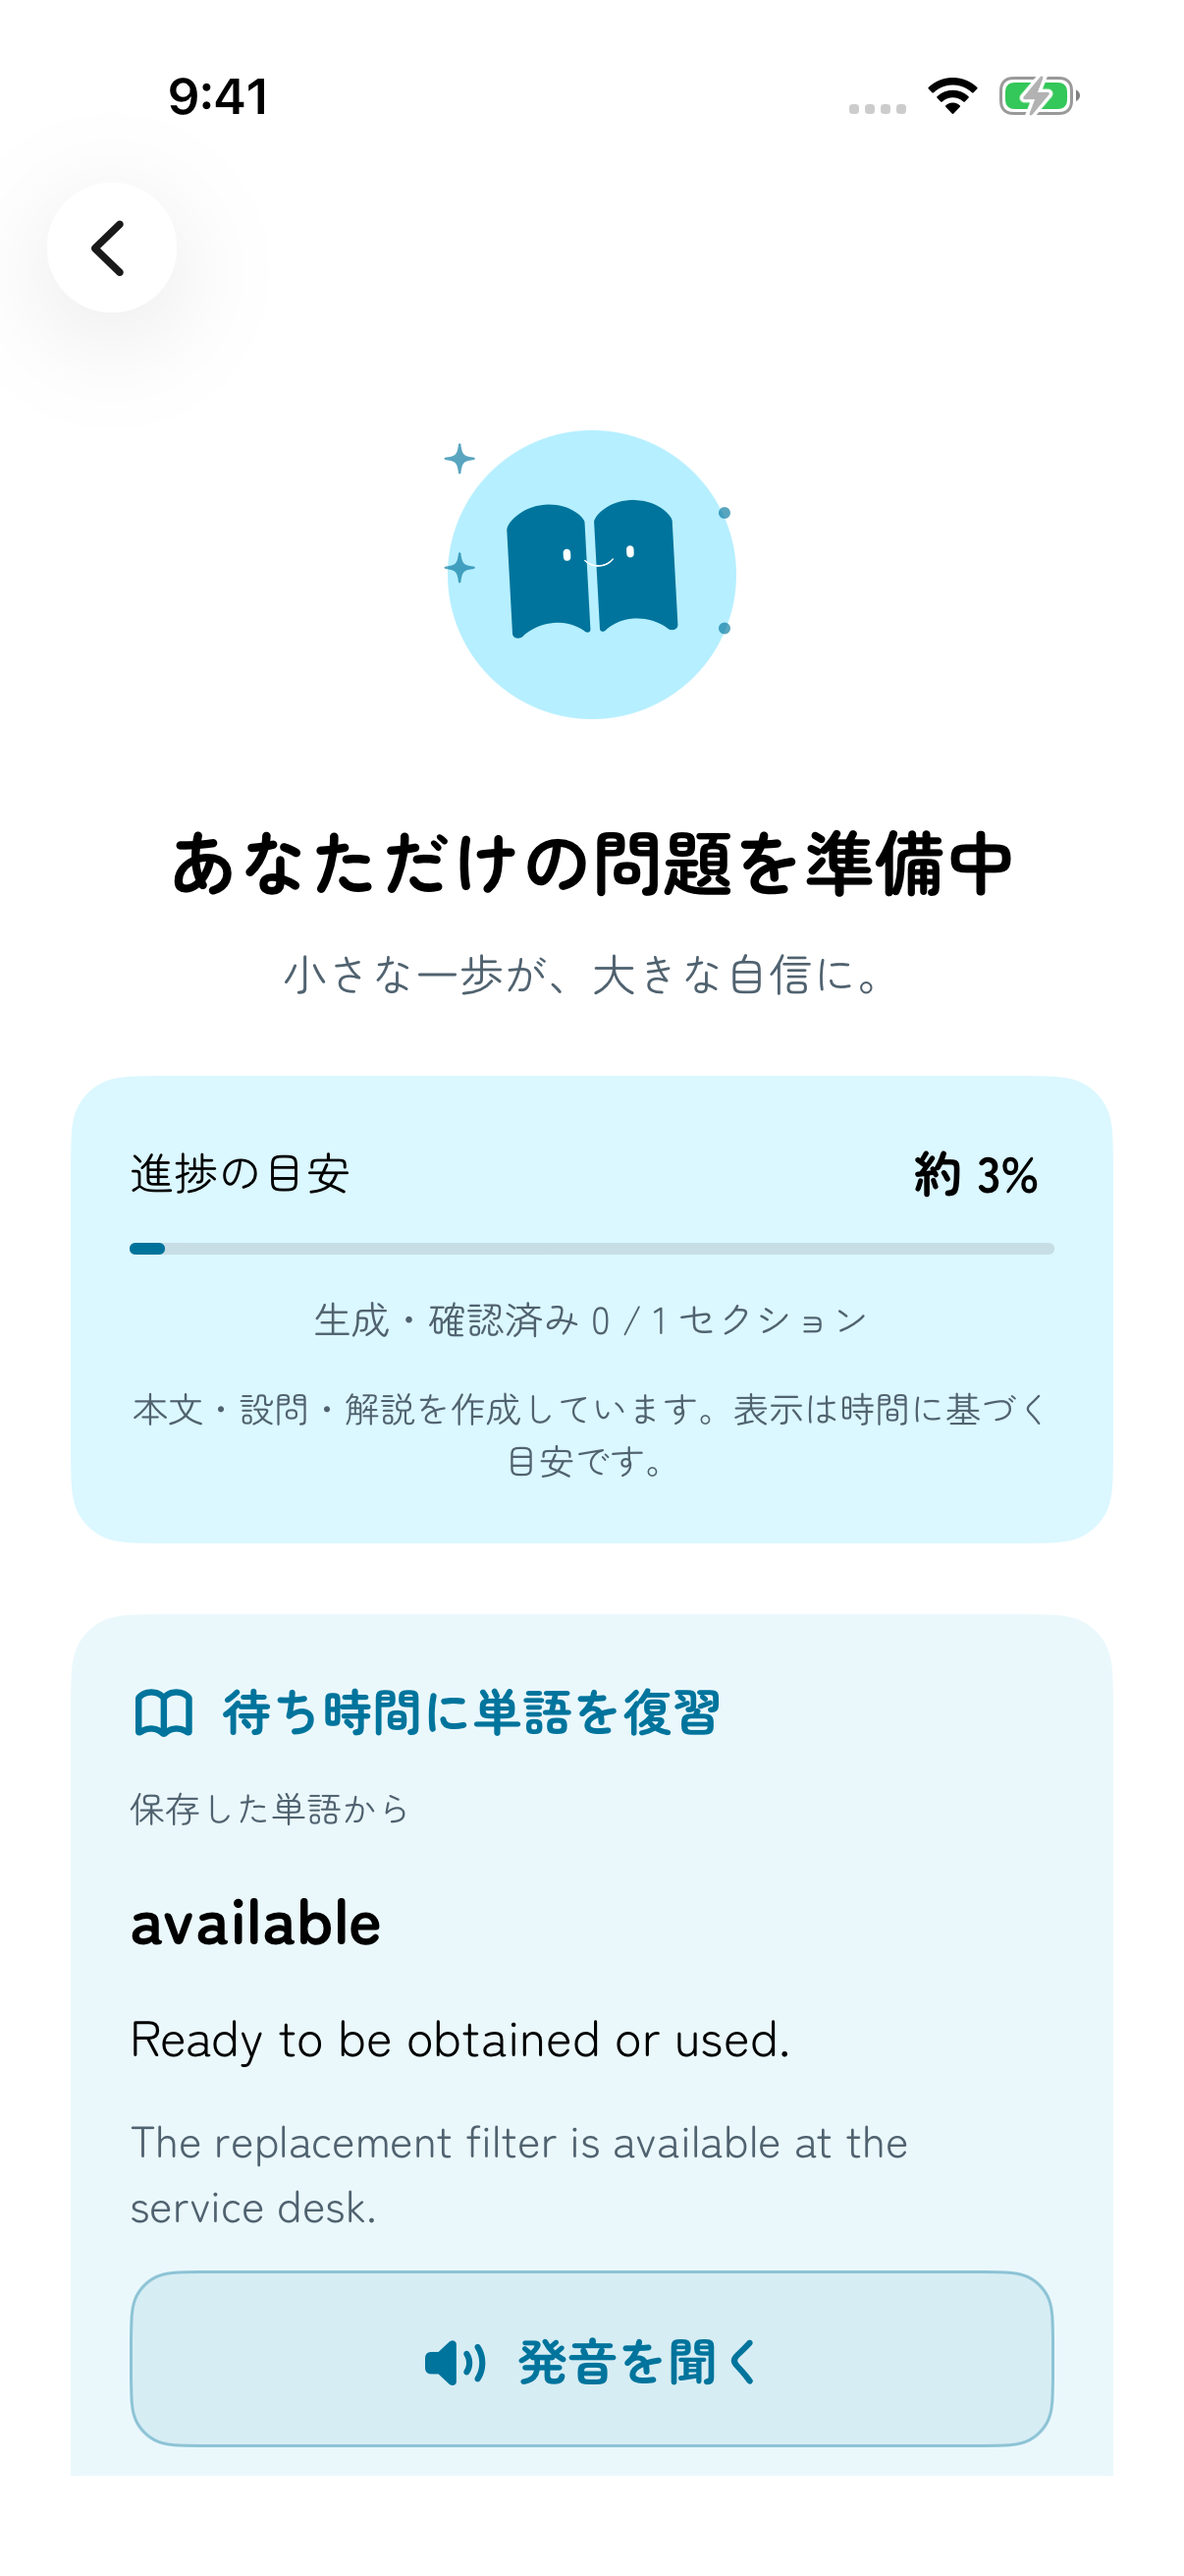
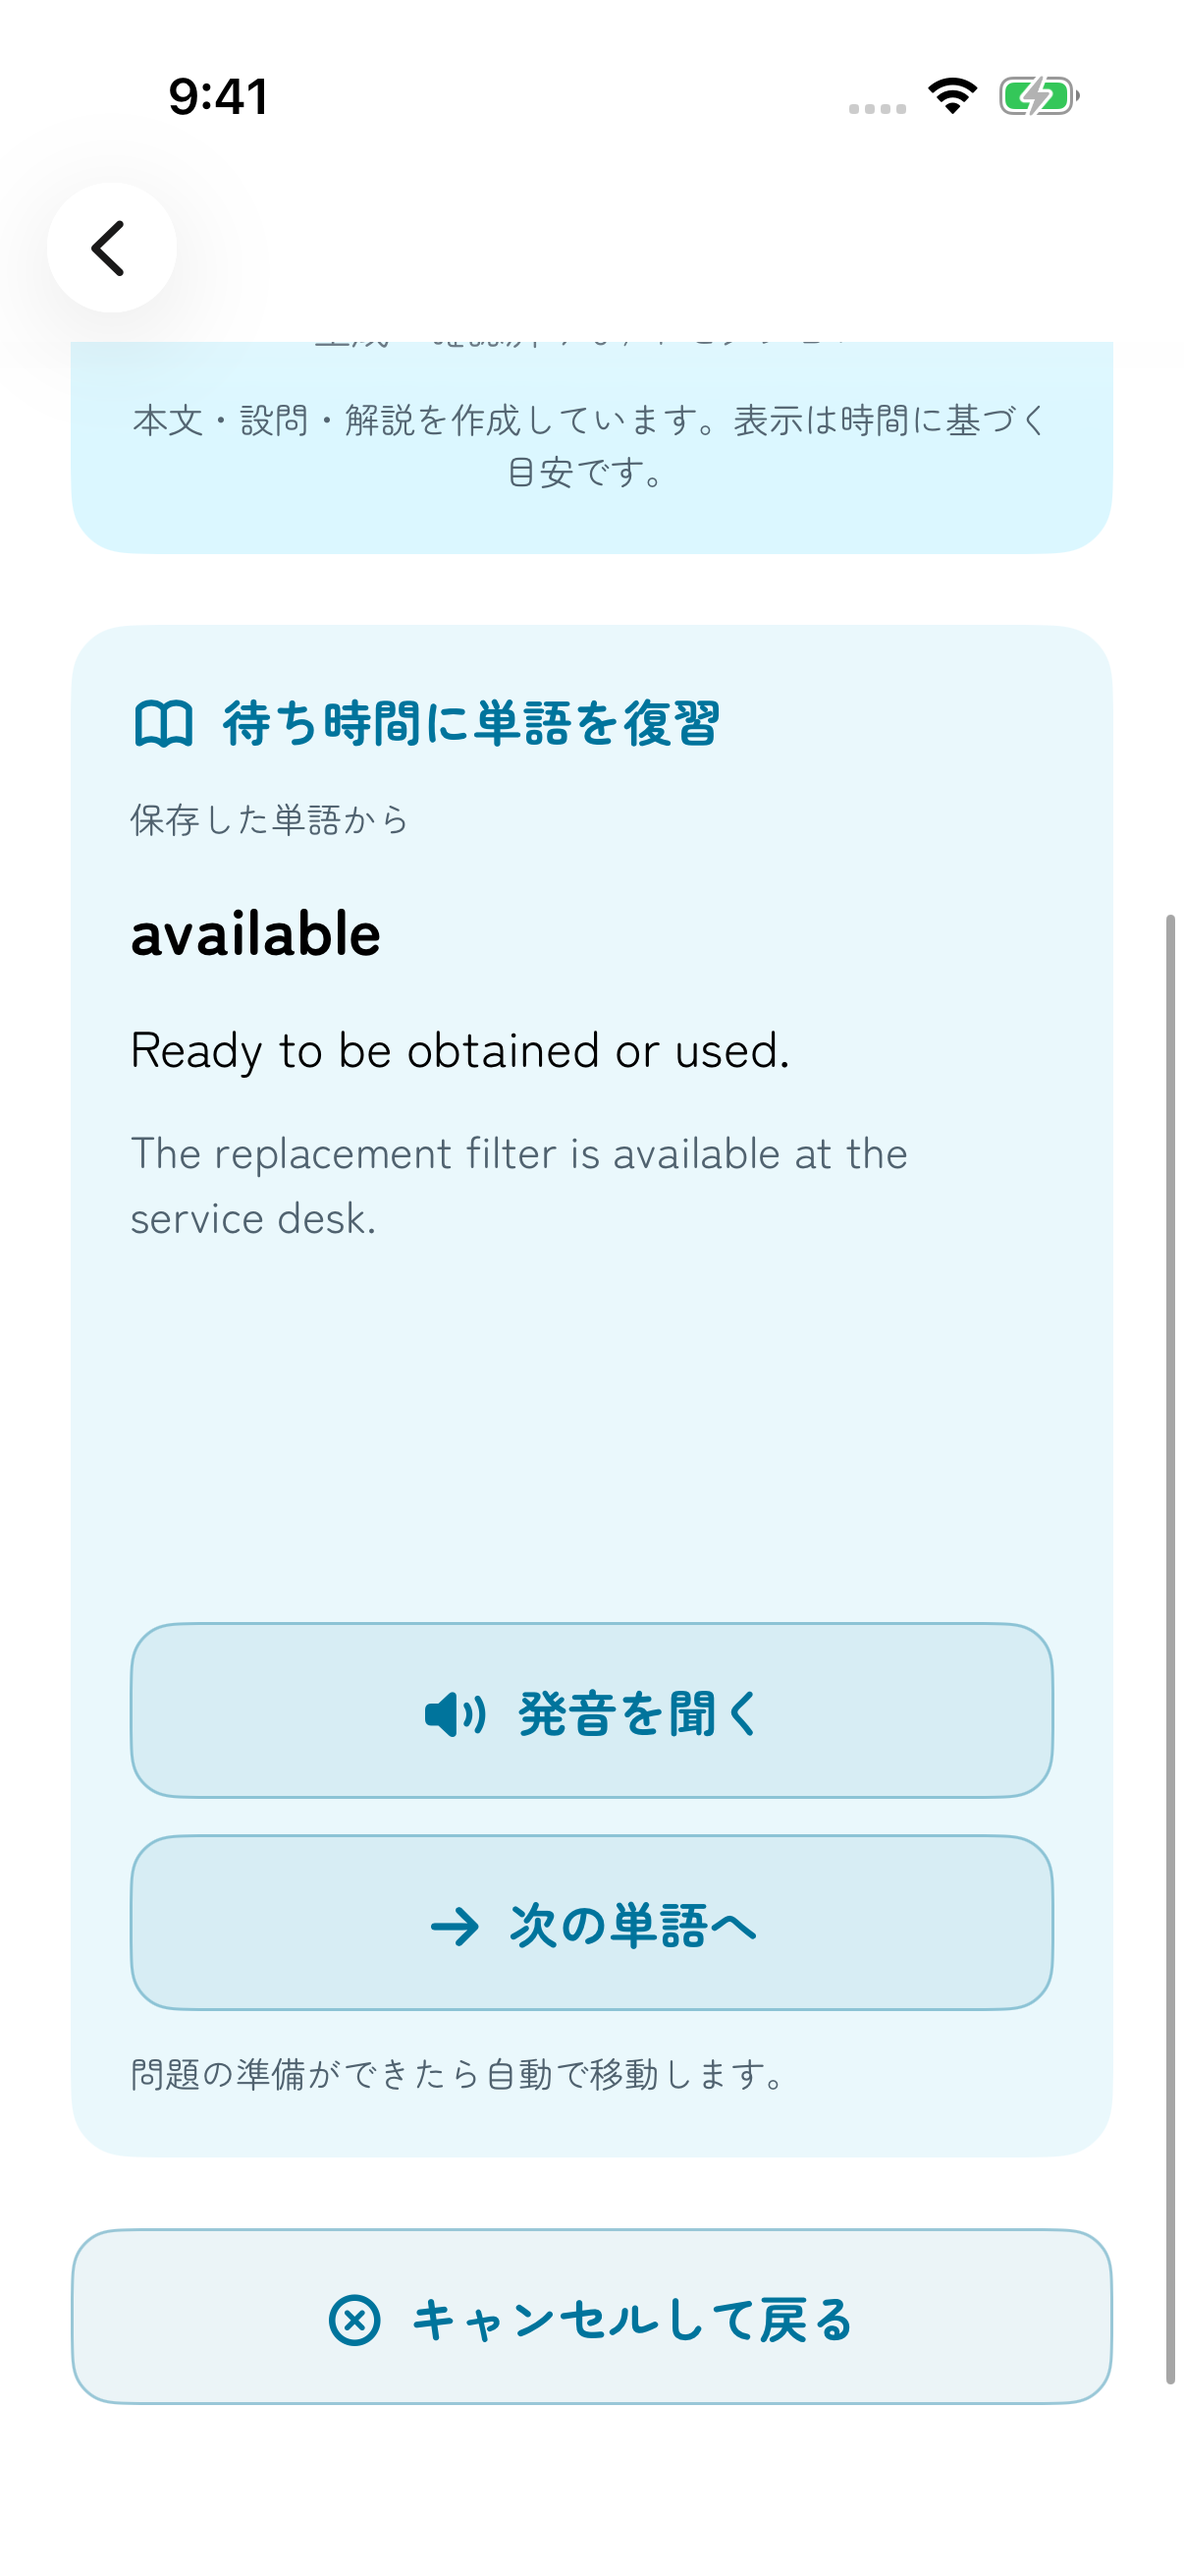
Keep waiting vocabulary buttons stationary across word changes

diff --git a/Sources/Features/Home/StudyLibrary.swift b/Sources/Features/Home/StudyLibrary.swift
@@ -179,6 +179,7 @@ struct WaitingVocabularyView: View {
     let words: [SavedExpression]
     @State private var cards: [VocabularyCard] = []
     @State private var index = 0
+    @ScaledMetric(relativeTo: .body) private var textAreaHeight = 240
     @StateObject private var pronunciation = WordPronouncer()
     init(words: [SavedExpression]) {
         self.words = words
@@ -193,10 +194,17 @@ struct WaitingVocabularyView: View {
                     Text(String(localized: card.personal ? "From your saved words" : "From the word library"))
                         .accessibilityIdentifier(card.personal ? "generation.source.personal" : "generation.source.bundled")
                         .font(StudyTypography.caption).foregroundStyle(StudyColors.secondaryText)
-                    Text(card.word).font(StudyTypography.heading).accessibilityIdentifier("generation.word")
-                    Text(card.meaning.isEmpty ? String(localized: "No saved meaning") : card.meaning)
-                        .font(StudyTypography.body).accessibilityIdentifier("generation.meaning")
-                    Text(card.example).font(StudyTypography.subheadline).foregroundStyle(StudyColors.secondaryText)
+                    // Keep controls outside a stable-height viewport so text wrapping
+                    // cannot move the next-word hit target under the user's finger.
+                    ScrollView {
+                        VStack(alignment: .leading, spacing: 12) {
+                            Text(card.word).font(StudyTypography.heading).accessibilityIdentifier("generation.word")
+                            Text(card.meaning.isEmpty ? String(localized: "No saved meaning") : card.meaning)
+                                .font(StudyTypography.body).accessibilityIdentifier("generation.meaning")
+                            Text(card.example).font(StudyTypography.subheadline).foregroundStyle(StudyColors.secondaryText)
+                        }.frame(maxWidth: .infinity, alignment: .leading)
+                    }.frame(height: textAreaHeight)
+                        .id(card.id)
                     WordPronunciationButton(word: card.word, pronunciation: pronunciation)
                     Button(String(localized: "Next word"), systemImage: "arrow.right") { pronunciation.stop(); index = (index + 1) % cards.count }
                         .buttonStyle(StudySecondaryButtonStyle()).accessibilityIdentifier("generation.nextWord")
@@ -204,6 +212,7 @@ struct WaitingVocabularyView: View {
                         .font(StudyTypography.caption).foregroundStyle(StudyColors.secondaryText)
                 }.padding(20).frame(maxWidth: .infinity, alignment: .leading)
                     .background(StudyColors.mockCard, in: RoundedRectangle(cornerRadius: 20))
+                    .transaction { $0.animation = nil; $0.disablesAnimations = true }
             }
         }.onDisappear { pronunciation.stop() }
     }

diff --git a/UITests/PocketIELTSUITests.swift b/UITests/PocketIELTSUITests.swift
@@ -253,7 +253,10 @@ final class PocketIELTSUITests: XCTestCase {
         XCTAssertFalse(app.staticTexts["generation.meaning"].label.isEmpty)
         XCTAssertTrue(app.buttons["vocabulary.pronounce.available"].exists)
         capture("iphone-generation-vocabulary")
+        let nextButtonFrame = action.frame
         action.tap()
+        XCTAssertEqual(action.frame.minY, nextButtonFrame.minY, accuracy: 1)
+        XCTAssertEqual(action.frame.height, nextButtonFrame.height, accuracy: 1)
         let bundledWord = app.staticTexts["generation.word"].label
         XCTAssertNotEqual(bundledWord, "available")
         XCTAssertTrue(app.staticTexts["generation.source.bundled"].exists)
@@ -261,6 +264,11 @@ final class PocketIELTSUITests: XCTestCase {
         action.tap()
         XCTAssertNotEqual(app.staticTexts["generation.word"].label, bundledWord)
         XCTAssertNotEqual(app.staticTexts["generation.word"].label, "available")
+        for _ in 0..<5 {
+            action.tap()
+            XCTAssertEqual(action.frame.minY, nextButtonFrame.minY, accuracy: 1, "Word length must not move the button")
+            XCTAssertEqual(action.frame.height, nextButtonFrame.height, accuracy: 1)
+        }
         capture("iphone-generation-bundled-word")
         let cancel = app.buttons["キャンセルして戻る"]
         for _ in 0..<3 where !cancel.isHittable { app.swipeUp() }

diff --git a/README.md b/README.md
@@ -205,7 +205,7 @@ Choose a score-based level, then search words or definitions. Flashcard entry po
 
 **Hear pronunciation** uses an installed English system voice, preferring British English. It does not call a paid API. Playback stops when changing cards, leaving the screen or moving the app to the background. Offline playback depends on an English voice being installed on the device.
 
-During exercise generation, a card immediately displays a **word, meaning and example**. Your saved words appear first in random order, followed by shuffled General Training words. Expressions are deduplicated across both collections, so even one saved word advances to a different word. Saved expressions without a definition are included with a clear “No saved meaning” label. **Next word** and pronunciation are optional; there is no quiz or additional API request. The exercise still opens after the loading indicator reaches 100%.
+During exercise generation, a card immediately displays a **word, meaning and example**. Your saved words appear first in random order, followed by shuffled General Training words. Expressions are deduplicated across both collections, so even one saved word advances to a different word. Saved expressions without a definition are included with a clear “No saved meaning” label. The word and example area keeps a stable height (scaled with Dynamic Type); longer content scrolls inside it, keeping the pronunciation and **Next word** buttons in place. **Next word** and pronunciation are optional; there is no quiz or additional API request. The exercise still opens after the loading indicator reaches 100%.
 
 The editable source is in [Scripts/Vocabulary](Scripts/Vocabulary); rebuild and validate all 1,000 entries with `python3 Scripts/build-vocabulary.py`. CI checks that this reproduces the bundled JSON.
 
